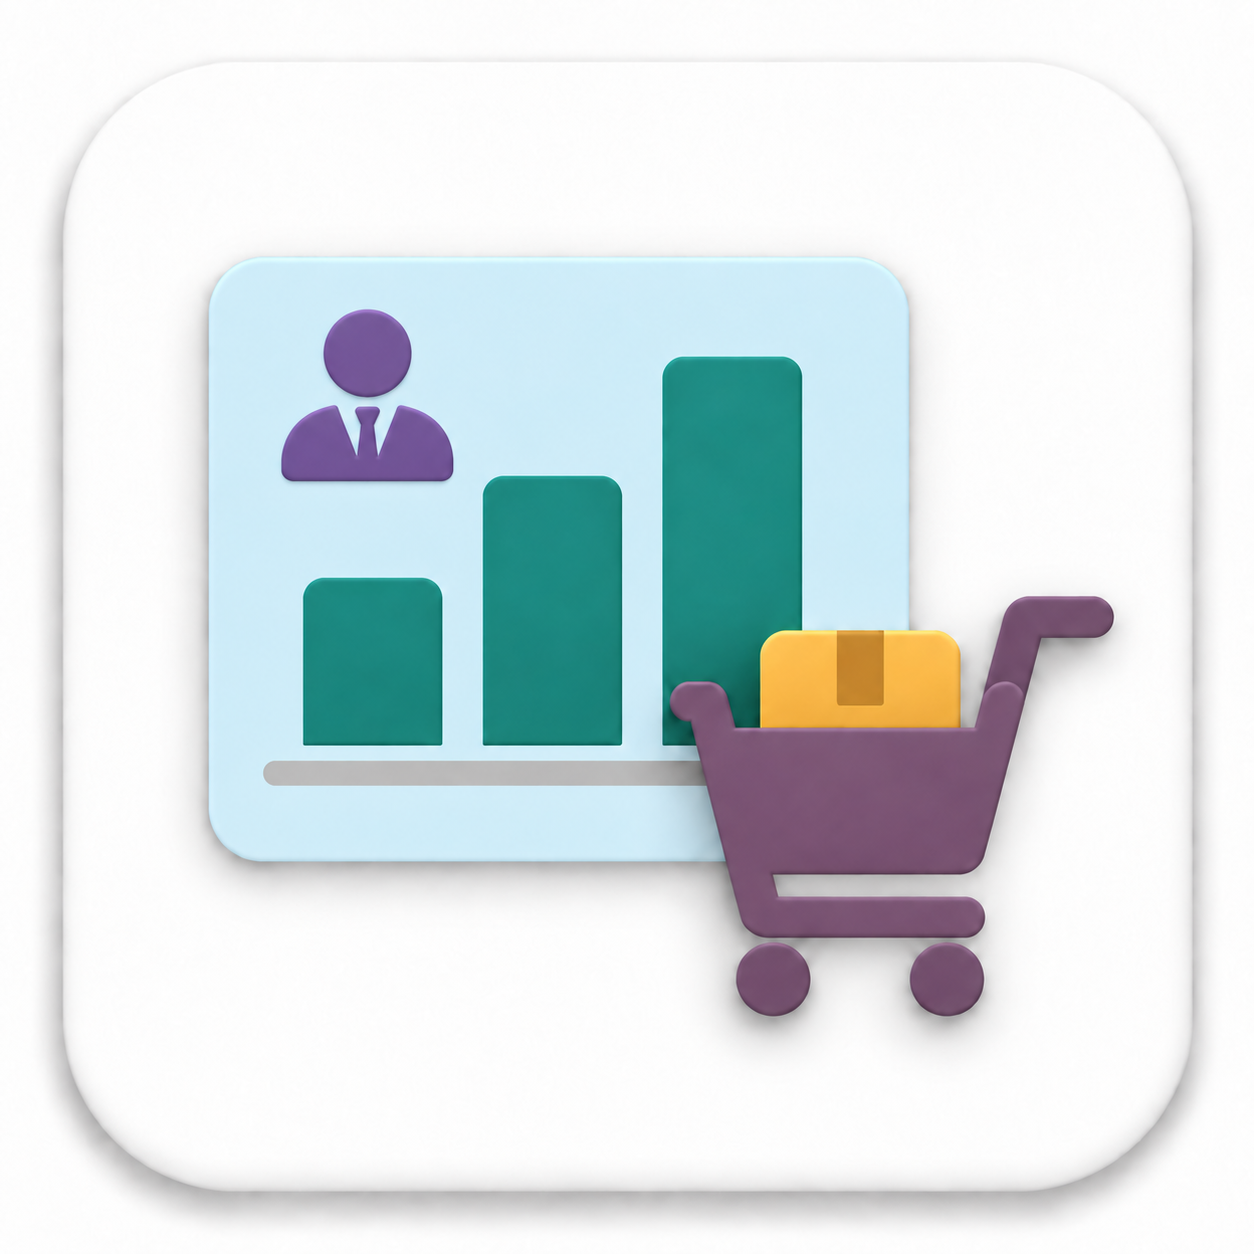
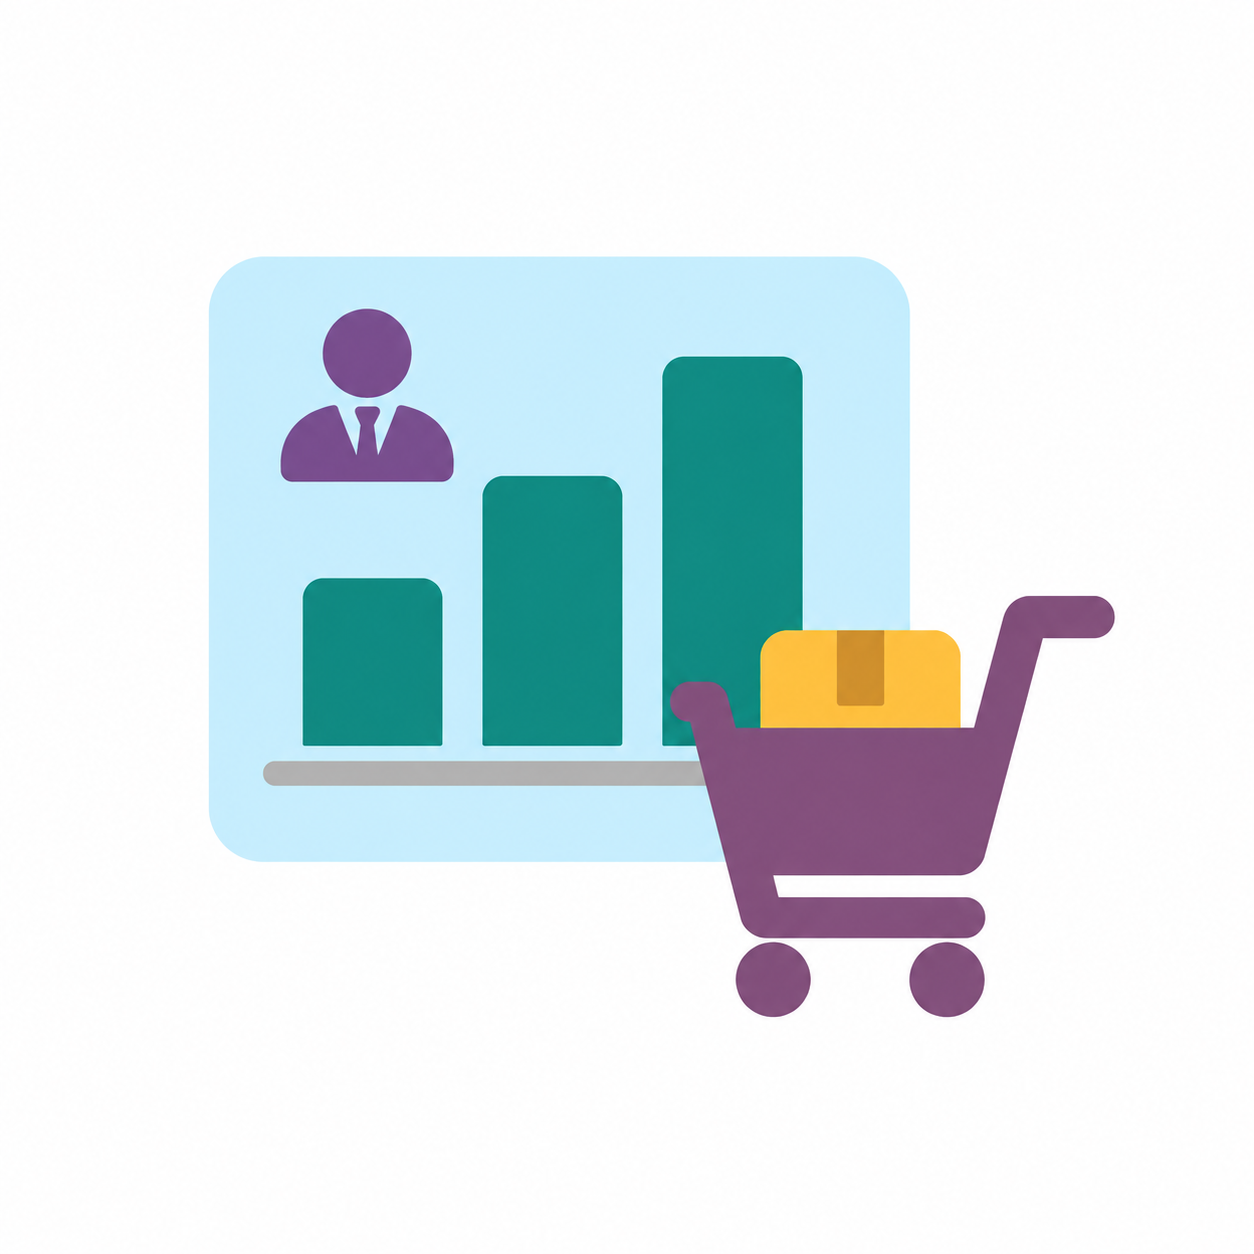
Add files via upload

diff --git a/systore_purchase_supply_dashboard/static/src/scss/supply_dashboard.scss b/systore_purchase_supply_dashboard/static/src/scss/supply_dashboard.scss
@@ -44,7 +44,7 @@
         display: grid;
         grid-template-columns: 1.25fr 1fr;
         gap: 14px;
-        padding: 0 24px 18px;
+        padding: 18px 24px;
     }
     .o_supply_receipt_charts {
         display: grid;

diff --git a/systore_purchase_supply_dashboard/__manifest__.py b/systore_purchase_supply_dashboard/__manifest__.py
@@ -1,6 +1,6 @@
 {
     "name": "Analítica de compras",
-    "version": "18.0.1.8.5",
+    "version": "18.0.1.8.6",
     "category": "Inventory/Purchase",
     "summary": "Conciliación de compras, recepciones, demanda, lotes y pagos manuales",
     "author": "Systore",

diff --git a/systore_purchase_supply_dashboard/README.md b/systore_purchase_supply_dashboard/README.md
@@ -95,6 +95,7 @@ Versión de pruebas para Odoo 18.
 - Por comprar: `max(faltante original - cobertura en compra, 0)`.
 - En la vista histórica, la cobertura disponible se asigna primero al mes de demanda más antiguo para no reutilizar una misma compra en varios meses.
 - Demanda de piezas: Cubiertas = Solicitadas - Por comprar.
+- El bloque de gráficas inicia separado visualmente del área de filtros para facilitar la lectura del tablero.
 - Las piezas ya recibidas dejan de contarse como cobertura en camino para evitar descontarlas también cuando pasan a piezas listas en inventario.
 - Las gráficas de órdenes cuentan cada orden de venta una sola vez; si tiene una operación parcial, prevalece el estado Parcial.
 - La gráfica por canal conserva ambos segmentos para mostrar la composición completa, aun cuando el filtro de canal esté seleccionado.

diff --git a/systore_purchase_supply_dashboard/CHANGELOG.md b/systore_purchase_supply_dashboard/CHANGELOG.md
@@ -1,5 +1,10 @@
 # Historial de cambios
 
+## 18.0.1.8.6
+
+- Se agregó espacio vertical entre el bloque de filtros y las gráficas Demanda de piezas y Órdenes por canal.
+- Se sustituyó el icono de la aplicación por la nueva versión proporcionada sin contorno exterior.
+
 ## 18.0.1.8.5
 
 - El módulo y su aplicación se renombraron a Analítica de compras.
